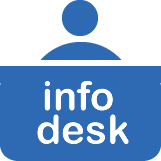
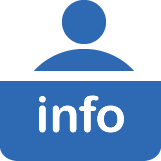
people list

diff --git a/index.html b/index.html
@@ -8,7 +8,7 @@
 	<script src="//ajax.googleapis.com/ajax/libs/jqueryui/1.12.1/jquery-ui.min.js"></script>
 	<script src="lib/jquery.ui.touch-punch.min.js"></script>
 	<link REL="SHORTCUT ICON" HREF="img/favicon.ico">
-	<title>èt | al</title>
+	<title>èt•al Meeting</title>
 </head>
 <style>
 	:root 		{ 	--mobileOff:0px; --avSize:45px}
@@ -19,7 +19,7 @@
 					font-size: 30px; text-align:center; height:100%;
 					text-shadow:2px 2px 3px #8a7a56; border-radius:8px; color:#fff; 
 					user-select:none; -webkit-user-select:none; -ms-user-select:none; }
-	.co-room 	{	background-image:url("img/carpet3.jpg"); background-repeat:repeat; border: 3px solid #000; }
+	.co-room 	{	background-image:url("img/carpet2.jpg"); background-repeat:repeat; border: 3px solid #000; }
 	.co-join	{	position:absolute;left:calc(50% - 30px); width:60px; top:calc(100% - 26px);cursor:pointer; font-size:14px; z-index:2;
 					border:0px solid #fff; border-radius:12px; background-color:#2d6ab3; padding-bottom:1px; }
 	.co-roomTitle {	font-size:18px; margin:32px; color:#000; pointer-events:none; text-shadow:2px 2px 6px #aaa; }
@@ -33,6 +33,10 @@
 					border:1px solid #666; padding:12px; text-align:center; font-size:12px; box-shadow:3px 3px 6px #666}
 	.co-chat	{	position:absolute; width:250px; height:320px; background-color:#fff; border-radius:16px;
 					border:1px solid #666; padding:24px; text-align:center; font-size:14px; box-shadow:3px 3px 6px #666}
+					.co-qlist 	{	position:absolute; width:274px; height:300px; background-color:#fff; border-radius:8px;
+					border:1px solid #666; padding:12px; text-align:center; font-size:12px; box-shadow:3px 3px 6px #666}
+	.co-people 	{	position:absolute; width:274px; height:50vh; background-color:#fff; border-radius:8px;
+					border:1px solid #666; padding:12px; font-size:12px; box-shadow:3px 3px 6px #666}
 	.co-textS 	{	background-color:#dddddd; border-radius:16px; padding:2px 8px; width:fit-content; max-width: 66%; margin:5px 0; clear:both; }
 	.co-textR 	{	background-color:#0099ff; border-radius:16px; padding:2px 8px; width:fit-content; max-width: 66%; margin:5px 0; clear:both; float:right; color:#fff;	}
 	.co-video	{	position:absolute; background-color:#fff; border-radius:4px; width:40%;
@@ -40,7 +44,7 @@
 					.co-is 		{	border-radius:16px; padding:0 8px; width:250px; height: 24px; border:1px solid #999; font-size: 13px; }
 
 	.co-logon 	{	border-radius:16px; padding:0 8px; width:200px; height: 24px; border:1px solid #999; font-size: 13px; text-align:center; }
-	.co-is 		{	border-radius:16px; padding:0 8px; width:250px; height: 24px; border:1px solid #999; font-size: 13px; }
+	.co-is 		{	border-radius:16px; padding:0 8px; height: 24px; border:1px solid #999; font-size: 13px; }
 	.co-popup 	{	position: absolute;  width: auto; padding: 12px; left: calc(50% - 100px); top: calc(50% - 50px);
 					border-radius: 8px; background-color: #eee; border: 1px solid #999; box-shadow: 4px 2px 12px 2px #aaa; 
 					font-size: 14px; text-align:center; display: none; }
@@ -143,14 +147,14 @@ class App  {
 		this.queue=[];																				// Contact queue
 		this.pIndex=[];																				// Get people index from id
 		this.status="";																				// My status
-		this.infoDeskId=1;																			// IF of info desk person
+		this.infoDeskId=6;																			// IF of info desk person
 		this.coffeeZoom="https://virginia.zoom.us/j/94170536877?pwd=OEhXcHZJenhWLzVvNUVvNXBwbXk1dz09";
 		this.ws=new WebSocket('ws://'+window.location.host+':8080');								// Open websocket											
 		this.ws.onmessage=(e)=>{ this.SocketIn(e); };												// ON INCOMING MESSAGE
 		this.ws.onclose=()=>   { console.log('disconnected'); };									// ON CLOSE
 		this.ws.onerror=(e)=> { 																	// ON ERROR
 			console.log('error',e);
-			let str=`<h1 style="color:#990000">There was a problem joining the meeting!</h1><p style="color:#000;font-size:14px;">
+			let str=`<h1 style="color:#ff0000">There was a problem joining the meeting!</h1><p style="color:#000;font-size:14px;">
 				Either the meeting server is down, or there may be a firewall blocking your access.<br><br>
 				<b>Please contact you meeting's host for help.<b></p>`;
 				$("#co-splash2").html(str); 
@@ -188,8 +192,10 @@ class App  {
 			}
 		else if (v[0] == "L")	{
 			if (meeting != this.meetingId)	return;													// Not this meeting
-			let x=v[2]/100*$("#co-main").width();													// Calc x from %
-			let y=v[3]/100*$("#co-main").height();													// Y
+			let x=v[2]/100*this.bx;																	// Calc x from %
+			let y=v[3]/100*this.by;																	// Y
+			x=Math.max(0,Math.min(this.bx-avSize,x));												// Cap x to screen
+			y=Math.max(0,Math.min(this.by-avSize*2,y));												// Y
 			id=this.pIndex[v[1]];																	// Get index from id			
 			this.people[id].x=x;	this.people[id].y=y;	this.people[id].stats=v[4];				// Update people object
 			$("#co-Av-"+id).animate({ left:x+"px", top:y+"px"});									// Animate icon there
@@ -218,13 +224,8 @@ class App  {
 		if (targetId.match(/co-Rm-/)) {																// In a room
 			return;																					// Quit
 			}
-		if (targetId == "co-search") {																// ON SEARCH BUTTON
-			return;																					// Quit
-			}
-		if (targetId == "co-infoDesk") {																// ON INFO DESK BUTTON
-			this.Chat(this.infoDeskId,true);														// Chat with help desk person
-			return;																					// Quit
-			}
+		if (targetId == "co-infoDesk")  { this.Chat(this.infoDeskId,true);			return; }		// ON INFO DESK BUTTON
+		if (targetId == "co-attendees") { this.ShowPeople(this.infoDeskId,true);	return; }		// ON PEOPLES BUTTON
 		if (targetId == "co-schedule") {															// ON SCHEDULE BUTTON
 			this.ShowSchedule();																	// Show schedule
 			return;																					// Quit
@@ -244,8 +245,10 @@ class App  {
 			this.StartZoom(this.coffeeZoom);														// Go to the coffee bar zoom	
 			}
 		else this.status="A";																		// Not in quiet mode
-		$("#co-AvMe").animate({ left:x, top:y });													// Animate me there
-		this.ReportLocation(x/$("body").width(),y/$("body").height(),this.status);					// Report my move
+		x=Math.max(0,Math.min(this.bx-avSize,x));													// Cap x to screen
+		y=Math.max(0,Math.min(this.by-avSize,y));													// Y
+		$("#co-AvMe").animate({ left:x, top:y });													// Animate me there		
+		this.ReportLocation(x/this.bx,y/this.by,this.status);										// Report my move
 	}
 
 	StartZoom(link)																				// INITIATE ZOOM
@@ -264,7 +267,7 @@ class App  {
 		let x=$("#co-coffee").offset().left;														// left side of bar
 		let w=$("#co-coffee").width()-avSize;														// Width of space
 		let x2=$("#co-coffee").offset().left+w;														// Last stool
-		let y=$("#co-main").height()-$("#co-coffee").height()-avSize-4;								// On top of bar area
+		let y=this.by-$("#co-coffee").height()-avSize-4;											// On top of bar area
 		for (i=0;i<this.people.length;++i) 	if (this.people[i].stats.charAt(0) == "B") bar.push(i);	// Make people array
 		if (!bar.length)	return
 		for (i=0;i<bar.length;++i) {																// For each barmate
@@ -286,17 +289,55 @@ class App  {
 	
 	Draw() 																						// REDRAW
 	{
-		let bx=$("body").width(), by=$("body").height();											// Body size
-		let x=bx*this.scale, y=by*this.scale;														// Max
+		this.bx=$("body").width(),		this.by=$("body").height();									// Body size
+		let x=this.bx*this.scale, y=this.by*this.scale;												// Max
 		$("#co-main").width(x);		$("#co-main").height(y);										// Scale div
 		let p=$("#co-main").offset();																// Get offset
-		$("#co-main").css({ left:Math.max(bx-x,p.left), top:Math.max(by-y,p.top) });				// Cap to max
+		$("#co-main").css({ left:Math.max(this.bx-x,p.left), top:Math.max(this.by-y,p.top) });		// Cap to max
 		this.ArrangePeople();																		// Arrange people				
-		}
+	}
 
 ///////////////////////////////////////////////////////////////////////////////////////////////////////////////////////
 // CARDS
 ///////////////////////////////////////////////////////////////////////////////////////////////////////////////////////
+
+	ShowPeople()																				// SHOW THE ATTENDEES
+	{
+		let i;
+		$("#co-chat").remove();																		// Close chat if open
+		$("#co-card").remove();																		// Close 
+		$("#co-sched").remove();																	// Close
+		$("#co-people").remove();																	// Close
+	
+		let x=this.bx/4+12;																			// Left
+		let	y=this.by/4																				// Top
+		let w=this.bx/2-48;																			// Width
+		let h=this.by/2-48;																			// Height
+		let p=[]
+		let str=`<div id='co-people' class='co-people' style="left:${x}px;top:${y}px;background-color:#eee">
+			<img id="co-spc" style="float:right;cursor:pointer;margin-top:5px" src="/img/closedot.png" onclick="$('#co-people').remove()">
+			<div style='text-align:center;font-size:18px'><b>Attendees</b></div><br>
+			<div style="overflow-x:hidden;overflow-y:auto;height:calc(100% - 140px);margin-bottom:12px;background-color:#fff;border:1px solid #999">`;
+			for (i=0;i<this.people.length;++i) {
+				str+=`<div style="vertical-align:top">
+				<div style="float:left;text-align:left;width:100%">
+				<img id="co-qi-${i}" style="float:left;width:40px;margin:0 8px 16px 4px;border:1px solid #333;border-radius:64px;width:${avSize}px" 
+				src="${this.people[i].pic}">
+				<b>${this.people[i].firstName} ${this.people[i].lastName}</b>
+				<br>${this.people[i].title}
+				<br>${this.people[i].org}
+				</div></div>`;
+				}
+		str+=`</div><table>
+			<tr><td>Sort by </td><td><select class="co-is" id="co-sps" style="width:auto">
+			<option>Name</option><option>Organization</option></select></td></tr>
+			<tr><td>In </td><td><select class="co-is" id="co-spr" style="width:auto"></select></td></tr>	
+			<tr><td>Find </td><td><input class="co-is" id="co-spf" style="width:100px" placeholder"Type name"></td></tr></table>`;
+		$("body").append(str.replace(/\t|\n|\r/g,""));
+		$("#co-people").draggable();
+		$("#co-spr").append("<option>Any area</option><option>Hallway</option>");
+		for (i=1;i<this.rooms.length;++i)	$("#co-spr").append("<option>"+this.rooms[i].title+"</option>");
+	}
 
 	ShowQueue()																					// SHOW QUEUE DOT
 	{
@@ -393,7 +434,7 @@ class App  {
 		$("#co-chat").remove();																		// Remove old one
 		$("#co-sched").remove();																	// Remove old one
 		$("#co-AvMe").animate({ left:ox-0+avSize, top:oy});											// Animate me there
-		this.ReportLocation((ox-0+avSize)/$("body").width(),oy/$("body").height(),"A");				// Report my move
+		this.ReportLocation((ox-0+avSize)/this.by,oy/this.by,"A");									// Report my move
 			let str=`<div id='co-chat' class='co-chat' style='left:${x}px;top:${y}px'>
 			<b>Chat with ${this.people[id].firstName}</b><hr>
 			<button id="co-zoomBut"  style="cursor:pointer; border-radius:20px; background-color:#2d6ab3; color:#fff">Send Zoom invite</button>
@@ -469,18 +510,20 @@ class App  {
 		for (i=0;i<people.length;++i) {																	// For each person
 			let id=people[i].id.split("~")[1];															// Split id out
 			this.pIndex[people[i].id]=i;																// Save index by full id
-			o=people[i];																				// Point at them
+			o=this.people[i];																			// Point at them
+			if (!this.people[i].pic)	this.people[i].pic="avyou.png";									// Use generic pic
 			str+=`<div class="co-avatar" id="co-Av-${i}" style="top:${o.y}%;left:${o.x}%"> 
-			<img src="${o.pic ? o.pic : "avyou.png"}" style="width:${avSize-4}px;height:${avSize-4}px;border:2px solid #fff;border-radius:64px;"><br>
+			<img src="${o.pic}" style="width:${avSize-4}px;height:${avSize-4}px;border:2px solid #fff;border-radius:64px;"><br>
 			<div id="co-At-${i}">${o.firstName}<br>${o.lastName}</div></div>`;							// Add person
 			}
 		str+=`<div class="co-me" id="co-AvMe"><img src="avme.png" width="100%"><div id="co-queue" class="co-qNum"></div>`;	// Add me
 		$("body").append(str);																			// Add to body
 
+		this.infoDeskId=this.pIndex[this.meetingId+"~"+this.infoDeskId];								// Convert info id to index
 		$("[id^=co-Av-]").on("click", (e)=>{ this.ShowCard(e.currentTarget.id.substr(6)); }); 			// ON PERSON CLICK
 		$("[id^=co-Av-]").droppable( { drop:(e)=>{ this.ShowCard(e.target.id.substr(6)); }}); 			// ON DROP ON PERSON
 		$("#co-AvMe").draggable({ containment:"window", stop:(e,ui)=>{ 
-			this.ReportLocation(ui.position.left/$("body").width(),ui.position.top/$("body").height());	// Report my move
+			this.ReportLocation(ui.position.left/this.bx,ui.position.top/this.by);						// Report my move
 			}})
 		$("#co-AvMe").on("click", (e)=>{ this.ShowQueue();	}); 										// ON ME CLICK
 		}
@@ -491,16 +534,17 @@ class App  {
 		this.meetingId=""+meetingId;																	// Project id
 		this.myId=myId;																					// Project id
 		let hallway=`<table style="position:absolute;top:calc(100% - 105px);width:50vw;padding:0 12px;height:100px"><tr style="vertical-align:bottom">
-				<td style="text-align:left;width:33%"><img src="img/quietarea.png" id="co-quiet" style="width:${avSize-0+8}px;cursor:pointer">
-					&nbsp;&nbsp;<img src="img/infodesk.png" id="co-infoDesk" style="width:${avSize-0+8}px;cursor:pointer"></td>
-				<td style="text-align:center;width:33%">`;
-		if (this.schedule)	hallway+=`<img src="img/schedule2.png" id="co-schedule" style="width:12.5%;cursor:pointer">&nbsp;&nbsp;`
-		hallway+=`<img src="img/search.png" id="co-search" style="width:12.5%;cursor:pointer"></td>
-				<td style="z-index:2;text-align:right;width:33%"><img id="co-coffee" src="img/coffeebar.png"></td>
-				</tr></table>`;
+			<td style="text-align:left;width:33%"><img src="img/quietarea.png" id="co-quiet" style="height:${avSize-0+8}px;cursor:pointer">
+			</td><td style="text-align:center;width:33%">`
+		
+		if (this.infoDeskId	) hallway+=`<img src="img/infodesk.png" id="co-infoDesk" style="height:${avSize}px;cursor:pointer">&nbsp;&nbsp;`;
+		if (this.schedule)	hallway+=`<img src="img/schedule2.png" id="co-schedule" style="height:${avSize}px;cursor:pointer;vertical-align:-10px">&nbsp;&nbsp;`
+		hallway+=`<img src="img/people.png" id="co-attendees" style="height:${avSize}px;cursor:pointer"></td>
+			<td style="z-index:2;text-align:right;width:33%"><img id="co-coffee" src="img/coffeebar.png"></td>
+			</tr></table>`;
 
 		this.rooms=[
-			{ zoom:"", title:"<br><img src='img/logo.png' style='width:30%'>", cs:2, ce:2, rs:1, re:5, content:hallway, use:"hall"  },
+			{ zoom:"", title:"<br><img src='img/wlogo.png' style='width:30%'>", cs:2, ce:2, rs:1, re:5, content:hallway, use:"hall"  },
 			{ zoom:"https://zoom.us/j/98542348220?pwd=N3IzWDNKaGRaT3pXcThOQ21wL1NCQT09", title:"Main room", cs:1, ce:1, rs:1, re:3, use:"room",
 				content:`<div style="font-size:18px;background-color:#42b97a;color:#fff;margin:24px;padding:12px;border:2px solid #fff;border-radius:8px;pointer-events:none; ">
 				Please join SITE president<br><b>Elizabeth Langren</b><br><br>
@@ -555,7 +599,7 @@ class App  {
 			${o.title}${o.content}<div id="co-Jo-${i}" class="co-join">Join!</div></div></div>`;
 			}
 		this.venue+=`</div></div>`;
-		$("#co-main").append(this.venue.replace(/\t|\n|\r/g,""));								// Add venue
+		$("#co-main").append(this.venue.replace(/\t|\n|\r/g,""));										// Add venue
 		$("#co-help").on("click",     (e)=>{ this.ShowHelp(); }); 										// ON HELPN
 		$("#co-zoomIn").on("click",   (e)=>{ this.scale=Math.min(4,this.scale+.5); this.Draw(); }); 	// ON ZOOM IN
 		$("#co-zoomOut").on("click",  (e)=>{ this.scale=Math.max(1,this.scale-.5); this.Draw(); }); 	// ON ZOOM OUT
@@ -607,7 +651,6 @@ class App  {
 		$("#pu-close").click(function() { $("#co-popupDiv").remove(); });								// Remove on click of close but
 		$("#co-popupDiv").fadeIn(500).delay(time ? time : 2000).fadeOut(500)							// Animate in and out		
 	}
-
 
 	function trace2(msg, p1, p2, p3, p4)										// CONSOLE 
 	{
